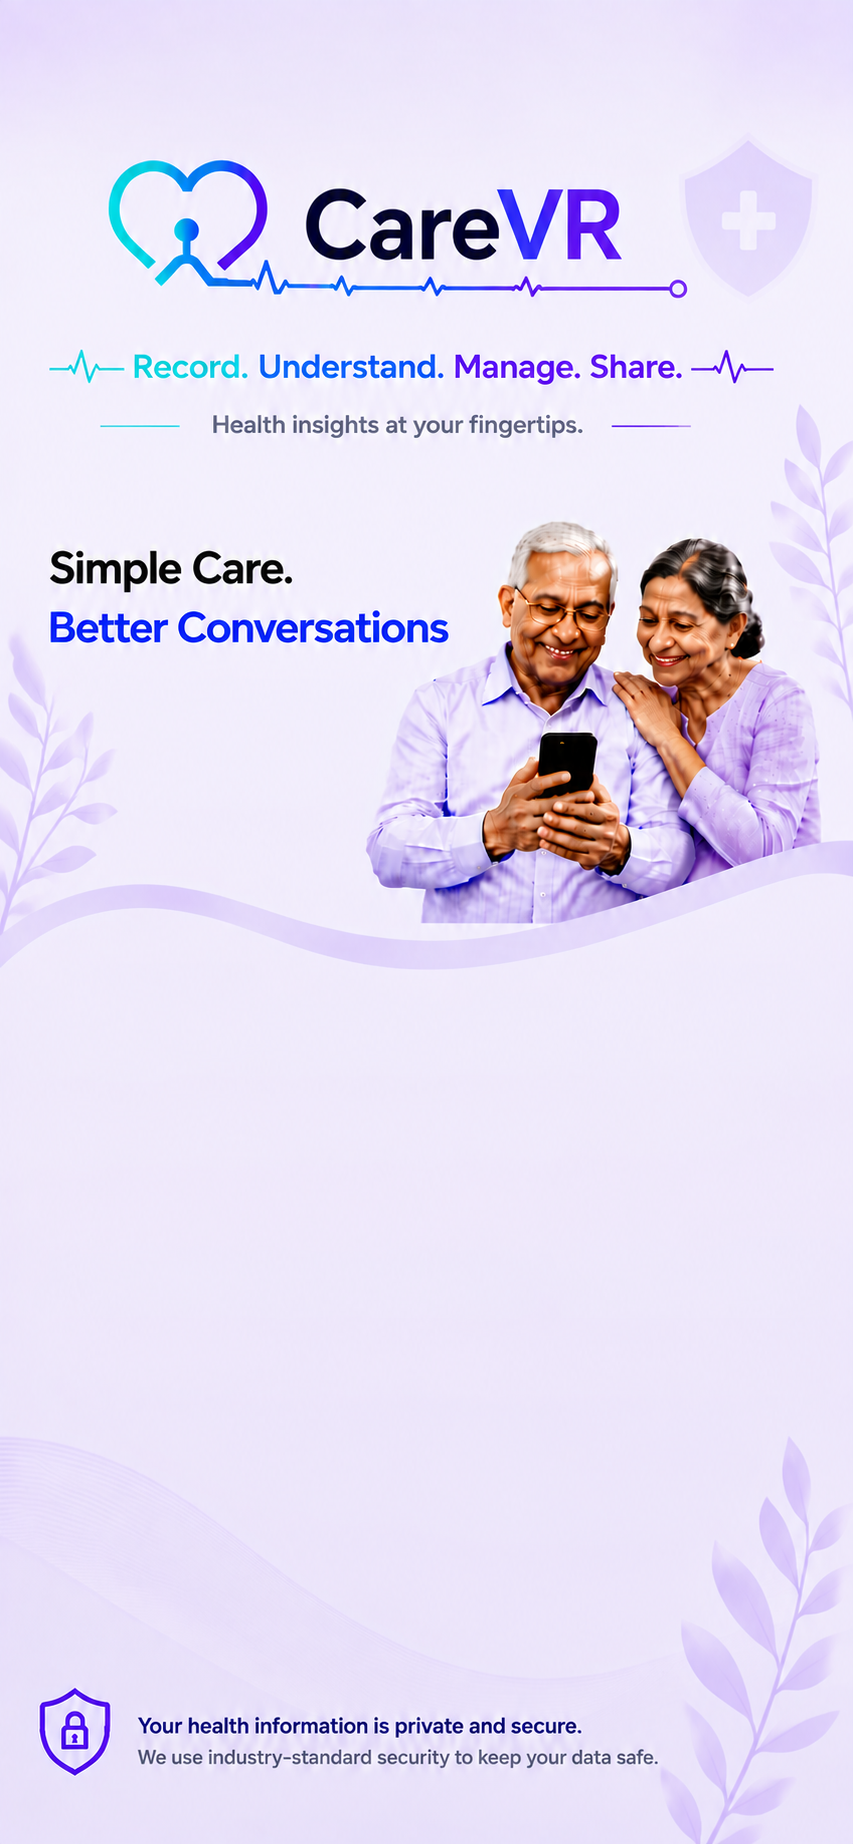
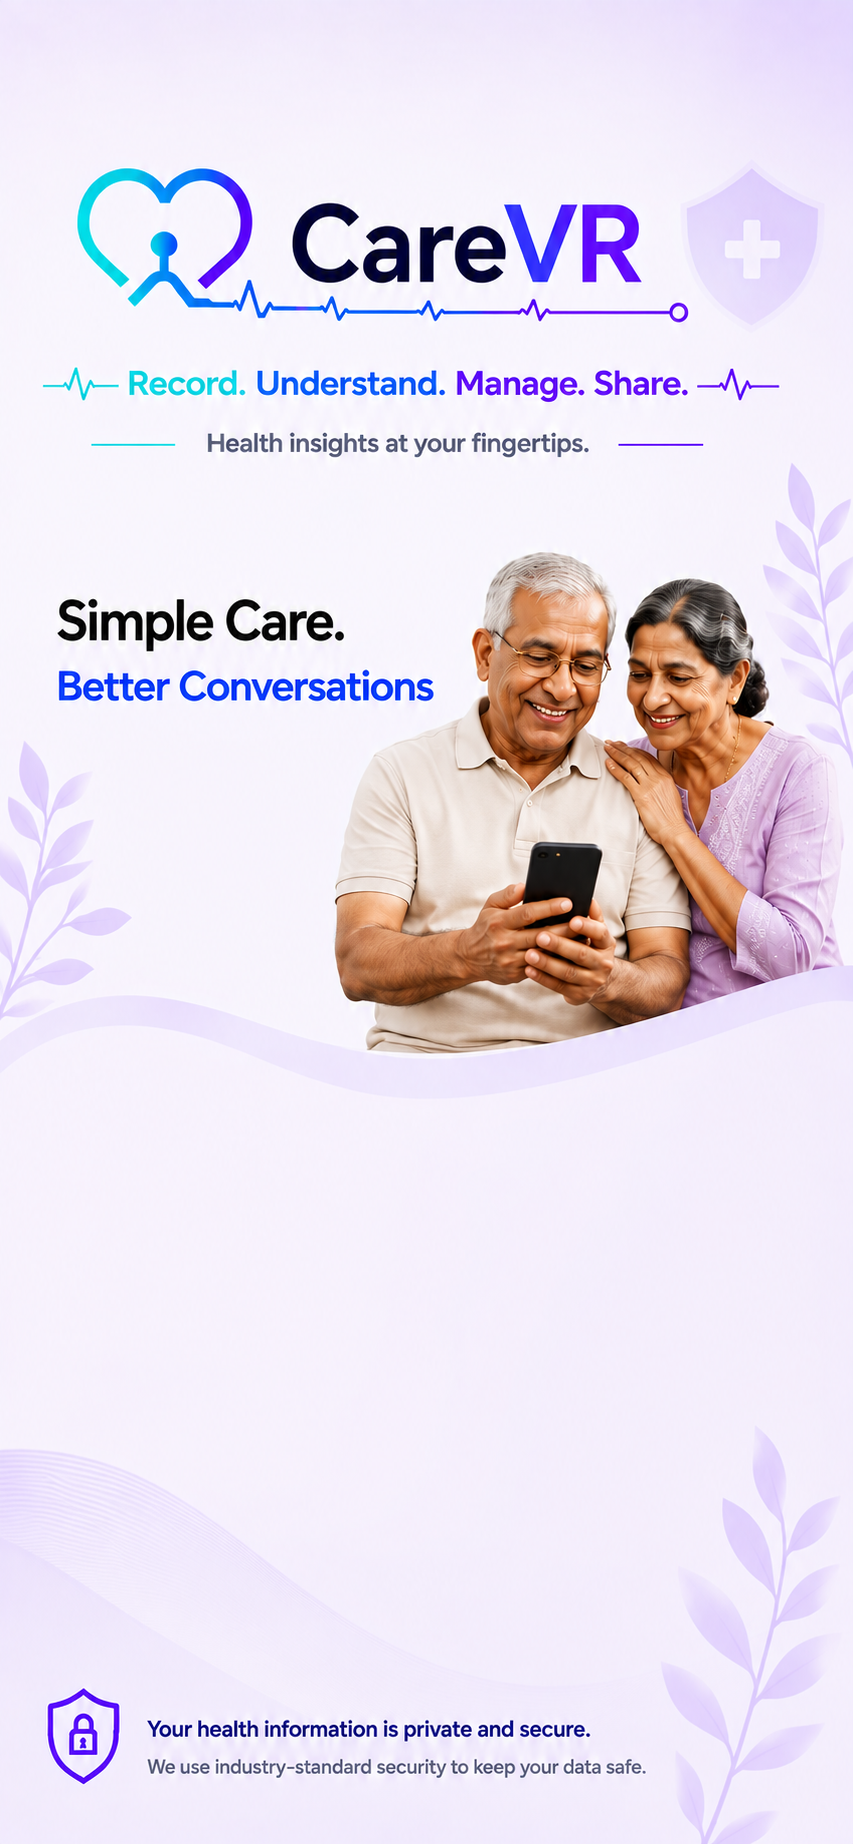
Login Page revamped v1.0

diff --git a/app/login/page.tsx b/app/login/page.tsx
@@ -526,26 +526,26 @@ return (
     background: #f1eaff;
   }
 
-  .login-shell {
-    position: relative;
-    width: 100%;
-    height: 100dvh;
-    min-height: 100dvh;
+.login-shell {
+  position: relative;
+  width: 100%;
+  height: 100dvh;
+  min-height: 100dvh;
 
-    display: block;
+  display: block;
 
-    overflow: hidden;
+  overflow: hidden;
 
-    border: 0;
-    border-radius: 0;
-    box-shadow: none;
+  border: 0;
+  border-radius: 0;
+  box-shadow: none;
 
-    background:
-      #f1eaff
-      url("/images/Mobile%20Login%20Background.png")
-      center top / cover
-      no-repeat;
-  }
+  background-color: #f1eaff;
+  background-image: url("/images/Mobile%20Login%20Background.png");
+  background-repeat: no-repeat;
+  background-position: center top;
+  background-size: 100% 100%;
+}
 
   /* Desktop artwork panel is not used on mobile */
   .login-right {
